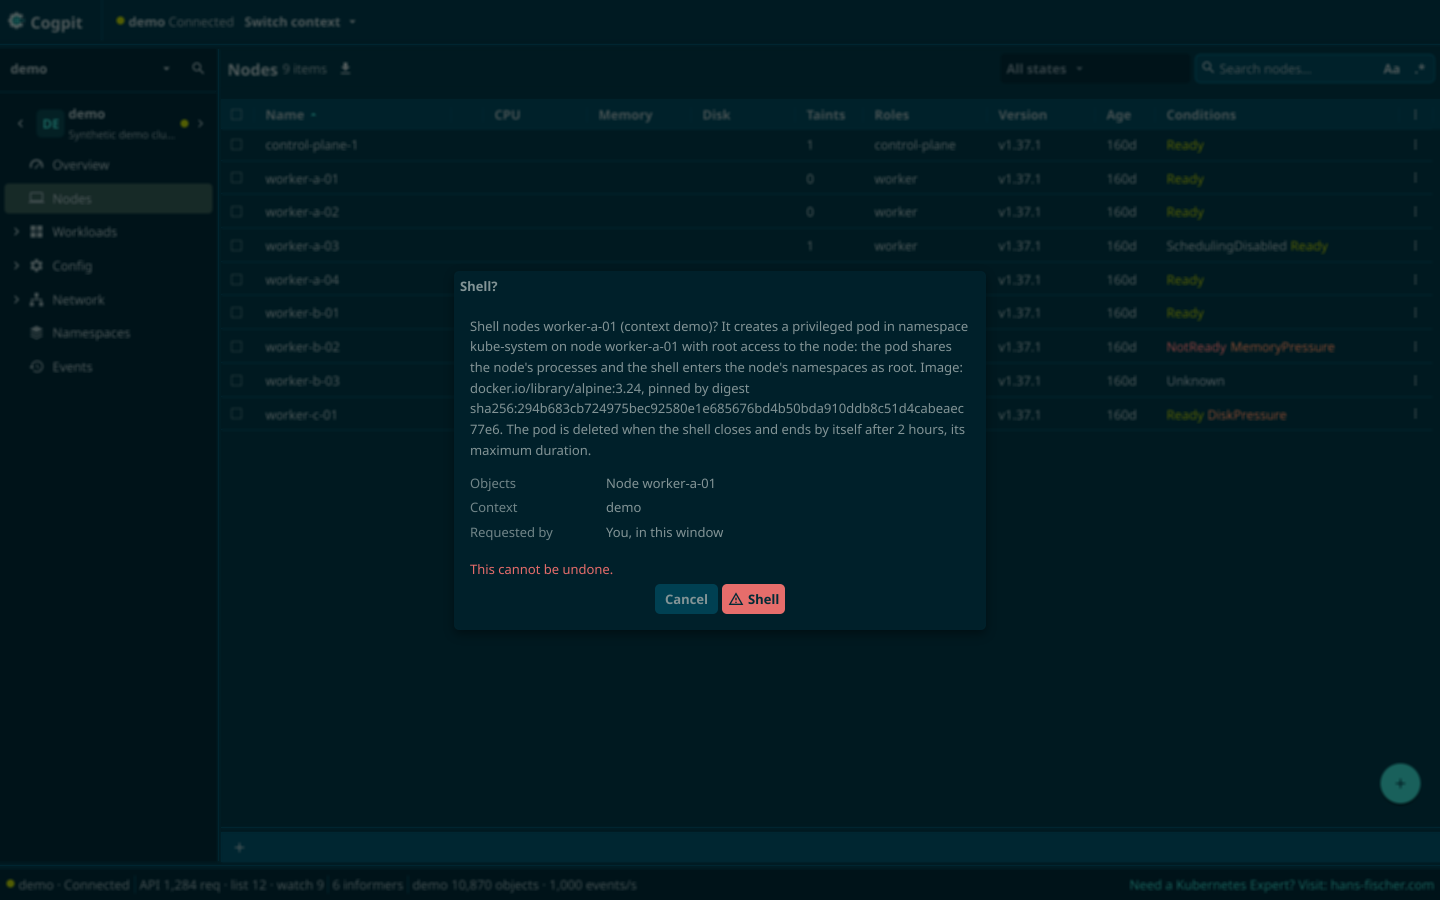
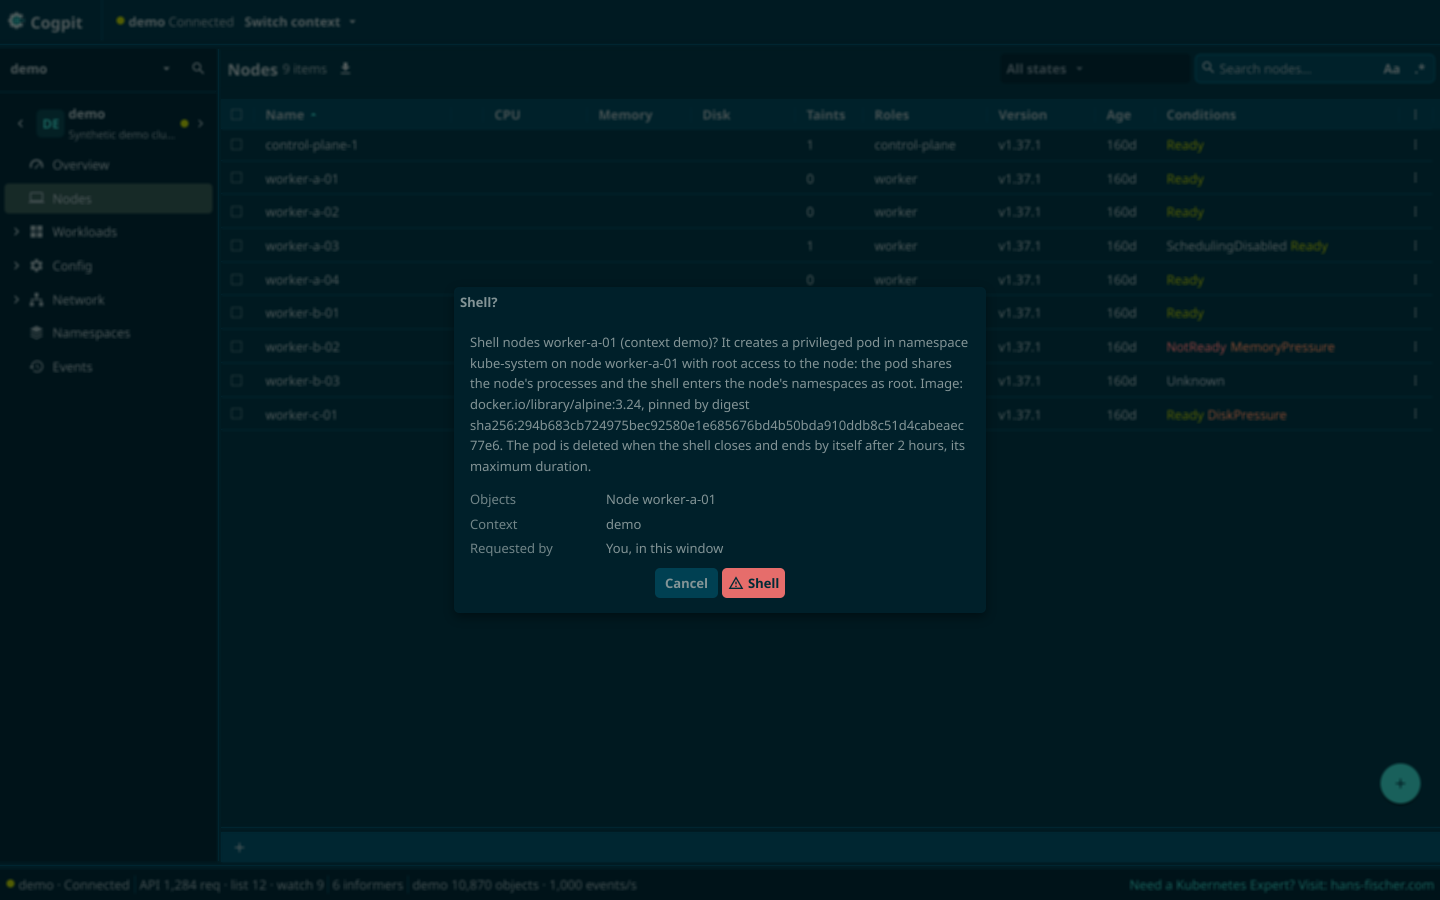
feat(engine): a grant's confirmation in the owner's words, and no undo warning where nothing is lost (A101)
A role or cluster role binding's confirmation begins "Grants these rights
immediately, cluster-wide" or "in namespace <ns>". Spec.Undoable drops
"This cannot be undone." for the grants, a Helm rollback and the node
shell.

Changed region(s): [[0.3125, 0.3422, 0.6875, 0.6533], [0.4062, 0.5289, 0.5625, 0.6844], [0.3125, 0.3111, 0.3438, 0.3422]]

diff --git a/internal/engine/commands/createdialogs_test.go b/internal/engine/commands/createdialogs_test.go
@@ -171,9 +171,10 @@ func TestCreateDialogsDryRunThenCreate(t *testing.T) {
 		t.Errorf("writes:\n got %v\nwant %v", got, want)
 	}
 	// The GUI's own mutating creates run without a question; the cluster-wide grant is confirmed,
-	// naming what it grants to whom.
+	// naming what it grants to whom, in the owner's words, and not saying it cannot be undone (A101).
 	if len(asked) != 1 || asked[0].Command != "clusterRoleBinding.create" || asked[0].Danger != engine.DangerDestructive ||
-		!strings.Contains(asked[0].Detail, "ClusterRole system:health-reader, in every namespace") ||
+		!asked[0].Undoable ||
+		!strings.HasPrefix(asked[0].Detail, "Grants these rights immediately, cluster-wide: the permissions of ClusterRole system:health-reader to ") ||
 		!strings.Contains(asked[0].Detail, "Group oncall and ServiceAccount shop/ci") {
 		t.Errorf("confirmations: %+v", asked)
 	}
@@ -257,10 +258,10 @@ func TestCreateDialogsAgentsNeedAcceptance(t *testing.T) {
 	req := asked[0]
 	if req.Danger != engine.DangerMutating || req.Context != "test" || !slices.Equal(req.Namespaces, []string{"shop"}) ||
 		len(req.Objects) != 1 || req.Objects[0].Kind != "rolebindings" || req.Objects[0].Name != "ci-admin" ||
-		req.Detail != "It grants the permissions of ClusterRole admin, in namespace shop, to ServiceAccount shop/ci; they hold them as soon as the binding exists." {
+		req.Detail != "Grants these rights immediately, in namespace shop: the permissions of ClusterRole admin to ServiceAccount shop/ci." {
 		t.Errorf("confirmation %+v", req)
 	}
-	if !strings.Contains(req.Message(), "An agent asks to run: Create Role Binding rolebindings ci-admin in namespace shop (context test)? It grants") {
+	if !strings.Contains(req.Message(), "An agent asks to run: Create Role Binding rolebindings ci-admin in namespace shop (context test)? Grants these rights immediately") {
 		t.Errorf("message %q", req.Message())
 	}
 	answer = true

diff --git a/internal/engine/registry.go b/internal/engine/registry.go
@@ -96,6 +96,11 @@ type Spec[P any] struct {
 	// Detail adds a sentence to the confirmation for parameters the objects don't show: the drain
 	// options that lose data. Nil adds nothing.
 	Detail func(s *Session, p P) string
+	// Undoable marks a destructive command whose effect the user can reverse, nothing being lost:
+	// a grant (deleting the binding takes it back), a rollback (the release's history keeps the
+	// revision), a node shell. Its confirmation does not say "This cannot be undone." (A101, owner
+	// 2026-10-14 evening: only where something is lost).
+	Undoable bool
 	// Refuse refuses the command for the origin that dispatched it (ctx carries it: OriginOf)
 	// before anyone is asked: a command whose Run would refuse that origin anyway (an agent's
 	// apply or create of a Secret, D-19) must not ask the user first. Nil refuses nothing.
@@ -134,6 +139,7 @@ type Command struct {
 	Schema  *jsonschema.Schema `json:"schema"`
 
 	guiOnly   error // the reason a GUI-only command gives every other origin
+	undoable  bool  // Spec.Undoable
 	resolved  *jsonschema.Resolved
 	decode    func(raw json.RawMessage) (any, error)
 	enabled   func(s *Session, p any) error
@@ -269,7 +275,7 @@ func Register[P any](r *Registry, spec Spec[P]) error {
 	c := &Command{
 		ID: spec.ID, Label: spec.Label, MenuPath: spec.MenuPath, Shortcut: spec.Shortcut,
 		Description: spec.Description, Kinds: spec.Kinds, Order: spec.Order, DrawerOnly: spec.DrawerOnly, Danger: spec.Danger,
-		Escalates: spec.Escalate != nil, AgentsAsk: spec.AgentsAsk != nil, GUIOnly: spec.GUIOnly != nil, guiOnly: spec.GUIOnly, Verbs: spec.Verbs, Schema: schema,
+		Escalates: spec.Escalate != nil, AgentsAsk: spec.AgentsAsk != nil, GUIOnly: spec.GUIOnly != nil, guiOnly: spec.GUIOnly, undoable: spec.Undoable, Verbs: spec.Verbs, Schema: schema,
 		resolved: resolved,
 	}
 	c.decode = func(raw json.RawMessage) (any, error) {

diff --git a/internal/engine/commands/createdialogs.go b/internal/engine/commands/createdialogs.go
@@ -329,6 +329,7 @@ func registerCreateDialogs(g *registrar) {
 	}
 	// A grant: an agent's always waits for the user, whatever the allowance of agent writes (H-27).
 	rb.AgentsAsk = func(*engine.Session, roleBindingCreateParams) bool { return true }
+	rb.Undoable = true // escalated, still a grant deleting the binding takes back (A101)
 	rb.Escalate = func(s *engine.Session, p roleBindingCreateParams) bool {
 		return grantsAll(s, p.RoleRef.Kind, p.RoleRef.Name, p.Namespace)
 	}
@@ -358,6 +359,7 @@ func registerCreateDialogs(g *registrar) {
 			obj["roleRef"], obj["subjects"] = roleRef, subjects
 			return obj, ref, err
 		})
+	crb.Undoable = true // deleting the binding takes the grant back (A101)
 	crb.Detail = func(_ *engine.Session, p clusterRoleBindingCreateParams) string {
 		return bindingDetail(rbacKindClusterRole, strings.TrimSpace(p.ClusterRole), "", p.Subjects)
 	}
@@ -654,10 +656,11 @@ func bindingDetail(roleKind, roleName, namespace string, subjects []subjectParam
 	}
 	where := "in namespace " + namespace
 	if namespace == "" {
-		where = "in every namespace and on cluster-scoped resources"
+		where = "cluster-wide"
 	}
-	return fmt.Sprintf("It grants the permissions of %s %s, %s, to %s; they hold them as soon as the binding exists.",
-		roleKind, roleName, where, capped(texts))
+	// The owner's wording (A101, 2026-10-14 evening).
+	return fmt.Sprintf("Grants these rights immediately, %s: the permissions of %s %s to %s.",
+		where, roleKind, roleName, capped(texts))
 }
 
 // rulesDetail is a role's sentence in the confirmation: its rules, the first few in full.

diff --git a/internal/engine/confirm.go b/internal/engine/confirm.go
@@ -31,6 +31,9 @@ type ConfirmRequest struct {
 	// writes, because the command declares it for these parameters: a role binding (H-27,
 	// agentsask.go). The dialog then does not offer the allowance as a way to skip such a question.
 	AgentsAsk bool `json:"agentsAsk,omitempty"`
+	// Undoable is set for a destructive command whose effect the user can reverse (Spec.Undoable):
+	// the dialog does not say "This cannot be undone." (A101).
+	Undoable bool `json:"undoable,omitempty"`
 	// Review is a text the user reads before answering, which the request itself carries: an
 	// agent's Helm values for an upgrade. The command runs with exactly this text (it is part of
 	// its parameters). The GUI's dialog shows it in Cogpit's own window; it is never serialised,
@@ -97,7 +100,7 @@ func (f ConfirmFunc) Confirm(ctx context.Context, req ConfirmRequest) (bool, err
 func newConfirmRequest(cmd *Command, danger Danger, origin Origin, uiContext string, targets []model.ObjectRef) ConfirmRequest {
 	req := ConfirmRequest{
 		Command: cmd.ID, Label: cmd.Label, Danger: danger, Origin: origin,
-		Context: uiContext, Objects: targets,
+		Context: uiContext, Objects: targets, Undoable: cmd.undoable,
 	}
 	for _, t := range targets {
 		if t.Context != "" {

diff --git a/internal/ui/fyneui/nodeshell_test.go b/internal/ui/fyneui/nodeshell_test.go
@@ -121,7 +121,7 @@ func TestRenderNodeShellLight(t *testing.T) {
 func nodeShellRequest(origin engine.Origin) engine.ConfirmRequest {
 	ref := model.ObjectRef{Context: "demo", Kind: "nodes", Name: busyNode}
 	return engine.ConfirmRequest{Command: engine.NodeShellCommand, Label: "Shell", Danger: engine.DangerDestructive, Origin: origin,
-		Context: "demo", Objects: []model.ObjectRef{ref},
+		Context: "demo", Objects: []model.ObjectRef{ref}, Undoable: true, // as the engine sets it (A101)
 		Detail: engine.NodeShellDetail(busyNode, engine.NodeShellConfig{Image: engine.DefaultNodeShellImage, Deadline: engine.DefaultNodeShellDeadline})}
 }
 
@@ -162,6 +162,9 @@ func TestNodeShellConfirmationNamesWhatItCreates(t *testing.T) {
 		if !strings.Contains(texts, want) {
 			t.Errorf("the confirmation lacks %q:\n%s", want, texts)
 		}
+	}
+	if strings.Contains(texts, "This cannot be undone.") { // nothing is lost (A101)
+		t.Errorf("the node shell's confirmation says it cannot be undone:\n%s", texts)
 	}
 }
 

diff --git a/internal/engine/commands/nodeshell.go b/internal/engine/commands/nodeshell.go
@@ -89,7 +89,7 @@ var nodeShellBounds = fmt.Sprintf("default %s, from %s to %s", engine.NodeShellD
 func registerNodeShell(g *registrar) {
 	add(g, engine.Spec[refParams]{
 		ID: engine.NodeShellCommand, Label: "Shell", MenuPath: "Node/Shell", Kinds: []string{nodeKindKey},
-		Order: 100, Danger: engine.DangerDestructive, Verbs: nodeShellVerbs,
+		Order: 100, Danger: engine.DangerDestructive, Verbs: nodeShellVerbs, Undoable: true, // nothing is lost (A101)
 		Description: "Opens a root shell on a node, as Lens's node shell does: creates a privileged pod in kube-system on the " +
 			"node that shares the node's processes (hostPID), from the image Cluster Settings › Node Shell names (default: " +
 			engine.DefaultNodeShellImageName + " pinned by digest), and enters the node's namespaces with nsenter in a dock tab " +

diff --git a/internal/engine/commands/helm.go b/internal/engine/commands/helm.go
@@ -58,7 +58,7 @@ const kindConfigMaps = "configmaps"
 func registerHelm(g *registrar) {
 	add(g, engine.Spec[rollbackParams]{
 		ID: "helm.release.rollback", Label: "Rollback", MenuPath: "Helm/Rollback", Kinds: []string{helm.ReleaseKind},
-		Order: 200, Danger: engine.DangerDestructive,
+		Order: 200, Danger: engine.DangerDestructive, Undoable: true, // the history keeps the revision (A101)
 		Verbs: releaseSecretVerbs("list", "get", "create", "update", "delete"),
 		Description: "Rolls a Helm release back to an earlier revision of its history, as helm rollback does with its " +
 			"defaults (hooks waited for, ten revisions kept): a new revision with that revision's chart, values and " +

diff --git a/internal/ui/fyneui/confirm.go b/internal/ui/fyneui/confirm.go
@@ -124,7 +124,7 @@ func (c *guiConfirmer) show(req engine.ConfirmRequest, reply func(bool)) *confir
 		content.Add(newSpace(theme.SizeNamePadding))
 		content.Add(reviewBlock(req.Review, width))
 	}
-	if destructive {
+	if destructive && !req.Undoable { // only where something is lost (A101)
 		content.Add(newSpace(theme.SizeNamePadding))
 		content.Add(newParagraph("This cannot be undone.", colorStatusError, width))
 	}

diff --git a/docs/parity/ui-parity.md b/docs/parity/ui-parity.md
@@ -210,7 +210,7 @@ Every list view is one table ([resource views](resource-parity.md)).
 | Diff view: "Show changes", "Revert to original", "Exit diff view" | paid | partial: every Save shows the changes (line diff, three lines of context) and "Back to Editor" leaves them; since 2026-10-13 "Revert to Original", in the review and in the editor's footer, puts the object as the cluster holds it now into the tab and bases the edit on that version, and "Undo Revert" brings the replaced text back until the user types or saves (inferred: which original Lens means, the place, the look and the undo instead of a question; Lens's diff view is not captured) | [`diffview.go`](../../internal/ui/fyneui/diffview.go), [`editortab_revert.go`](../../internal/ui/fyneui/editortab_revert.go), [`engine/editrevert.go`](../../internal/engine/editrevert.go); `editor.revert`, `editor.undoRevert`; `TestEditTabSaveReviewsThenApplies`, `TestRevertToOriginal`, `TestEditTabRevertsAndUndoes`, `TestReviewRevertsToTheEditor`; PNGs [diff](../../internal/ui/fyneui/testdata/edit_diff_dark.png), revert [dark](../../internal/ui/fyneui/testdata/edit_revert_dark.png), [light](../../internal/ui/fyneui/testdata/edit_revert_light.png) |
 | Create resource tab: template picker, "Create & Close"; captured: a dock tab with save and search buttons, a "Select Template …" picker whose templates sit under a "LENS" heading, one per kind in alphabetical order (ClusterRole, ClusterRoleBinding, ConfigMap, CronJob, CustomResourceDefinition, DaemonSet, Deployment, Endpoint, EndpointSlice, HorizontalPodAutoscaler, Ingress, IngressClass, Job, …), and an example Pod manifest to start from; Cogpit writes its own templates (clean-room) | free | partial: since 2026-10-13 the save and search buttons sit before the picker; what Lens's do is not captured, Cogpit's reading (inferred): save writes the tab's text to a YAML file the user picks in the system's save dialog, suggesting `<kind>-<name>.yaml` (a GUI action, no command, as the CSV download; a text holding a Secret's manifest is not saved, Cogpit's default), search opens the editor's find widget below the editor as the Helm Upgrade tab's does; Cogpit's own 30 templates under a "Cogpit" heading, without Secret (H-8) and the deprecated Endpoints; Create as well as "Create & Close" | [`createtab.go`](../../internal/ui/fyneui/createtab.go), [`createtab_save.go`](../../internal/ui/fyneui/createtab_save.go), [`engine/templates/`](../../internal/engine/templates/), `object.create`, `resource.createTab`, `resource.templates`; `TestCreateObjects`, `TestCreateTabAndTemplates`, `TestCreateTabTemplatesAndCreate`, `TestCreateTabSavesToAFile`, `TestCreateTabKeepsSecretsOffDisk`, `TestCreateTabSearchOpensTheFindWidget`; PNGs [create](../../internal/ui/fyneui/testdata/create_dark.png), the buttons and the find widget [dark](../../internal/ui/fyneui/testdata/create_tools_dark.png), [light](../../internal/ui/fyneui/testdata/create_tools_light.png) |
 | Bundled templates, device-resource templates included (2026.9) | free | partial: Cogpit's own templates include DeviceClass, ResourceClaim and ResourceClaimTemplate (`resource.k8s.io/v1`); which device templates Lens bundles is not captured | every template passes a server-side dry run on Kubernetes 1.36.1 (`TestKindEditCreateConflictDelete`) |
-| Dialogs instead of YAML to create Namespaces, Secrets, Resource Quotas, Service Accounts and RBAC objects | free | partial (2026-10-12; the Secret's 2026-10-13, the user's only, D-19): all eight kinds; the view's "+" opens the kind's dialog, its fields inferred (Lens's dialogs not captured), a dry run before the create ([resource-parity › Create dialogs](resource-parity.md#create-dialogs)). Decided (owner, 2026-10-14 evening): after a create the new object's drawer opens and the list scrolls to its row; a grant's confirmation says "Grants these rights immediately, cluster-wide" (or "in <namespace>"), and "This cannot be undone." stays only where something is lost (delete, drain, uninstall); not built. | [`createdialog.go`](../../internal/ui/fyneui/createdialog.go), `TestCreateButtonOpensTheKindsDialog`, `TestRoleBindingDialogOffersTheCache`, `TestCreateDialogNotPermitted`, [`createdialog_secret.go`](../../internal/ui/fyneui/createdialog_secret.go) `TestSecretDialogSendsTheSecret`; PNGs [Namespace](../../internal/ui/fyneui/testdata/create_namespace_dialog_dark.png), [Role Binding](../../internal/ui/fyneui/testdata/create_rolebinding_dialog_dark.png), [Secret](../../internal/ui/fyneui/testdata/create_secret_dialog_dark.png) |
+| Dialogs instead of YAML to create Namespaces, Secrets, Resource Quotas, Service Accounts and RBAC objects | free | partial (2026-10-12; the Secret's 2026-10-13, the user's only, D-19): all eight kinds; the view's "+" opens the kind's dialog, its fields inferred (Lens's dialogs not captured), a dry run before the create ([resource-parity › Create dialogs](resource-parity.md#create-dialogs)). Decided (owner, 2026-10-14 evening): after a create the new object's drawer opens and the list scrolls to its row (not built); a grant's confirmation says "Grants these rights immediately, cluster-wide" (or "in <namespace>"), and "This cannot be undone." stays only where something is lost (delete, drain, uninstall) (built 2026-10-14, `Spec.Undoable`). | [`createdialog.go`](../../internal/ui/fyneui/createdialog.go), `TestCreateButtonOpensTheKindsDialog`, `TestRoleBindingDialogOffersTheCache`, `TestCreateDialogNotPermitted`, [`createdialog_secret.go`](../../internal/ui/fyneui/createdialog_secret.go) `TestSecretDialogSendsTheSecret`; PNGs [Namespace](../../internal/ui/fyneui/testdata/create_namespace_dialog_dark.png), [Role Binding](../../internal/ui/fyneui/testdata/create_rolebinding_dialog_dark.png), [Secret](../../internal/ui/fyneui/testdata/create_secret_dialog_dark.png) |
 
 ## Logs
 

diff --git a/docs/developer/decisions.md b/docs/developer/decisions.md
@@ -168,7 +168,7 @@ window. Nothing of it was built in the round.
 | A98 | #124 | The Overviews wait for the access reviews like the dashboards, no refused cluster-wide read first; to build | [architecture §5](architecture.md#5-cache) |
 | A99 | #19 | A combined PEM (certificate and key in one value) gets the key check too; to build | [D-30](#d-30-certificates-in-secrets-decoded) |
 | A100 | #20 | An encrypted private key in the warning colour with "encrypted key: TLS/Ingress cannot use it"; to build | [D-30](#d-30-certificates-in-secrets-decoded) |
-| A101 | #23 | A grant's confirmation says "Grants these rights immediately, cluster-wide" or "in `<ns>`"; "This cannot be undone." only where something is lost; to build | [D-2](#d-2-agent-interface-scope), [parity](../parity/README.md) |
+| A101 | #23 | A grant's confirmation says "Grants these rights immediately, cluster-wide" or "in `<ns>`"; "This cannot be undone." only where something is lost; built 2026-10-14 | [D-2](#d-2-agent-interface-scope), [parity](../parity/README.md) |
 | A102 | #24 | After a create the new object's drawer opens and the list scrolls to its row; to build | [parity](../parity/README.md) |
 | A103 | #48 | An Application's Violations are its workloads in warning or error; as built | [parity](../parity/README.md) |
 | A104 | #50 | A VPA's mode "Auto" when unset; as built | [parity](../parity/README.md) |
@@ -308,8 +308,14 @@ code still does what the safety rules above and their notes say:
   allowance of agent writes for a context was never given for them.
 - **Decided (owner, 2026-10-14 evening, A101):** a grant's confirmation (a role binding, a cluster
   role binding) says "Grants these rights immediately, cluster-wide" or "in `<namespace>`", and
-  "This cannot be undone." stands only where something is lost (delete, drain, uninstall …). Not
-  built yet: every destructive confirmation says it, grants included.
+  "This cannot be undone." stands only where something is lost (delete, drain, uninstall …). Built
+  2026-10-14: the grant's `Detail` begins with the owner's words; `Spec.Undoable` (and
+  `ConfirmRequest.Undoable`) drops the line for the destructive commands where nothing is lost.
+  **The lead's night decision for the owner to confirm**, which ones: the two grants
+  (`clusterRoleBinding.create`, an escalated `roleBinding.create`: deleting the binding takes the
+  grant back), `helm.release.rollback` (the release's history keeps the revision) and the node
+  shell (nothing is lost); delete, delete of a selection, evict, drain, Helm uninstall, restart (the
+  pods' state goes), scale to zero and an Argo CD sync with prune keep it.
 - **Confirmed (owner, 2026-10-14 evening):** GUI-only commands stay listed for agents, described
   as GUI-only and refused (A89, as built); agents and the CLI may turn the automatic update checks
   on, never off (A12, [D-4](#d-4-packaging-and-updates)). The transport below names the bridge

diff --git a/docs/parity/gaps.md b/docs/parity/gaps.md
@@ -461,9 +461,9 @@ D-1 is decided for Fyne ([results](../developer/spike-fyne.md#results)).
   Binding, Cluster Role Binding) always waits for the user, also where agent writes are allowed
   ([H-27](../security/privilege-footprint.md#h-27-a-binding-is-judged-by-its-roles-name-and-the-cache)).
 - **Decided (owner, 2026-10-14 evening; not built):** Restart on a selection of workloads, Scale
-  staying on one object; a grant's confirmation says "Grants these rights immediately,
-  cluster-wide" or "in <namespace>", and "This cannot be undone." stays only where something is lost
-  (delete, drain, uninstall) ([resource parity › Create dialogs](resource-parity.md#create-dialogs)).
+  staying on one object ([resource parity › Create dialogs](resource-parity.md#create-dialogs)).
+  Built 2026-10-14 (A101): a grant's confirmation says "Grants these rights immediately,
+  cluster-wide" or "in <namespace>", and "This cannot be undone." stays only where something is lost.
   Confirmed: the node shell's bounds, 5 minutes to 24 hours, default 2 hours. Estimate not moved.
 - **Missing:** the actions not listed under Evidence, of 39 (Share is not a target, owner 2026-10-11). The alpha gate needs about 20: logs, shell, attach, edit, delete,
   scale, restart, cordon, uncordon, drain, trigger, the port-forward actions and the Helm release
